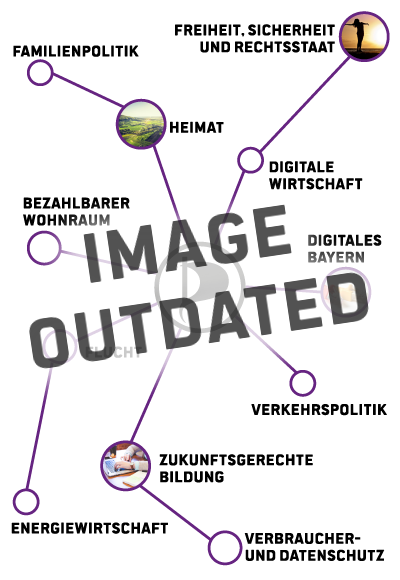
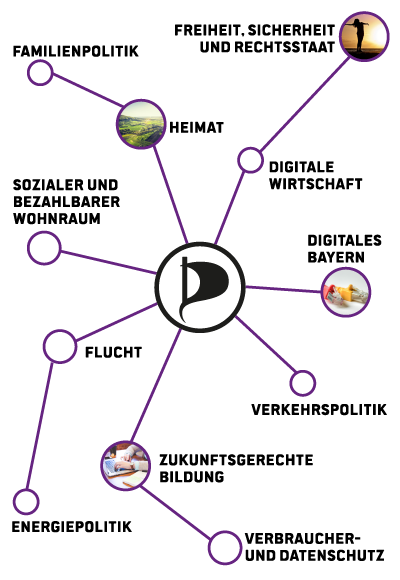
Updated topics

Changed region(s): [[0.03, 0.3103, 0.93, 0.6828], [0.03, 0.9, 0.42, 0.931]]

diff --git a/pirate-rogue-ltw18-child/Topic_Widget.php b/pirate-rogue-ltw18-child/Topic_Widget.php
@@ -45,7 +45,6 @@ class Topic_Widget extends WP_Widget
                 var imgWrapper = document.getElementById(id + '-wrapper');
                 var linksWrapper = document.getElementById(id + '-links');
                 var img = imgWrapper.querySelector('img');
-                // TODO: Update image and coordinates
                 var topicCoords = {
                     'familienpolitik': [
                         [2, 6, 36, 11],
@@ -63,7 +62,7 @@ class Topic_Widget extends WP_Widget
                         [66, 26, 92, 33]
                     ],
                     'bezahlbarerwohnraum': [
-                        [5, 33, 33, 40],
+                        [3, 30, 31, 40],
                         [6, 40, 16, 46]
                     ],
                     'digitalesbayern': [
@@ -84,7 +83,7 @@ class Topic_Widget extends WP_Widget
                     ],
                     'energie': [
                         [2, 83, 11, 88],
-                        [2, 88, 43, 92]
+                        [2, 88, 34, 92]
                     ],
                     'verbraucherunddatenschutz': [
                         [51, 90, 98, 97]
@@ -92,6 +91,8 @@ class Topic_Widget extends WP_Widget
                 };
 
                 function applyImageSize() {
+                    var baseStyle = 'display: block; position: absolute;';
+                    baseStyle += 'background: rgba(0,0,0,0.5);';
                     linksWrapper.style.width = img.width + 'px';
                     linksWrapper.style.left = ((imgWrapper.offsetWidth - img.width) / 2) + 'px';
 
@@ -100,9 +101,8 @@ class Topic_Widget extends WP_Widget
                         if (topicCoords.hasOwnProperty(topic)) {
                             for (var i = 0; i < topicCoords[topic].length; i++) {
                                 var coords = topicCoords[topic][i];
-                                console.log(topic,links[topic]);
                                 linksWrapper.innerHTML += '<a href="' + links[topic] + '" ' +
-                                    'style="display: block; position: absolute; ' +
+                                    'style="' + baseStyle + ' ' +
                                     'left: ' + coords[0] + '%; top: ' + coords[1] + '%;' +
                                     'width: ' + (coords[2] - coords[0]) + '%; height: ' + (coords[3] - coords[1]) + '%;">&nbsp;</a>';
                             }
